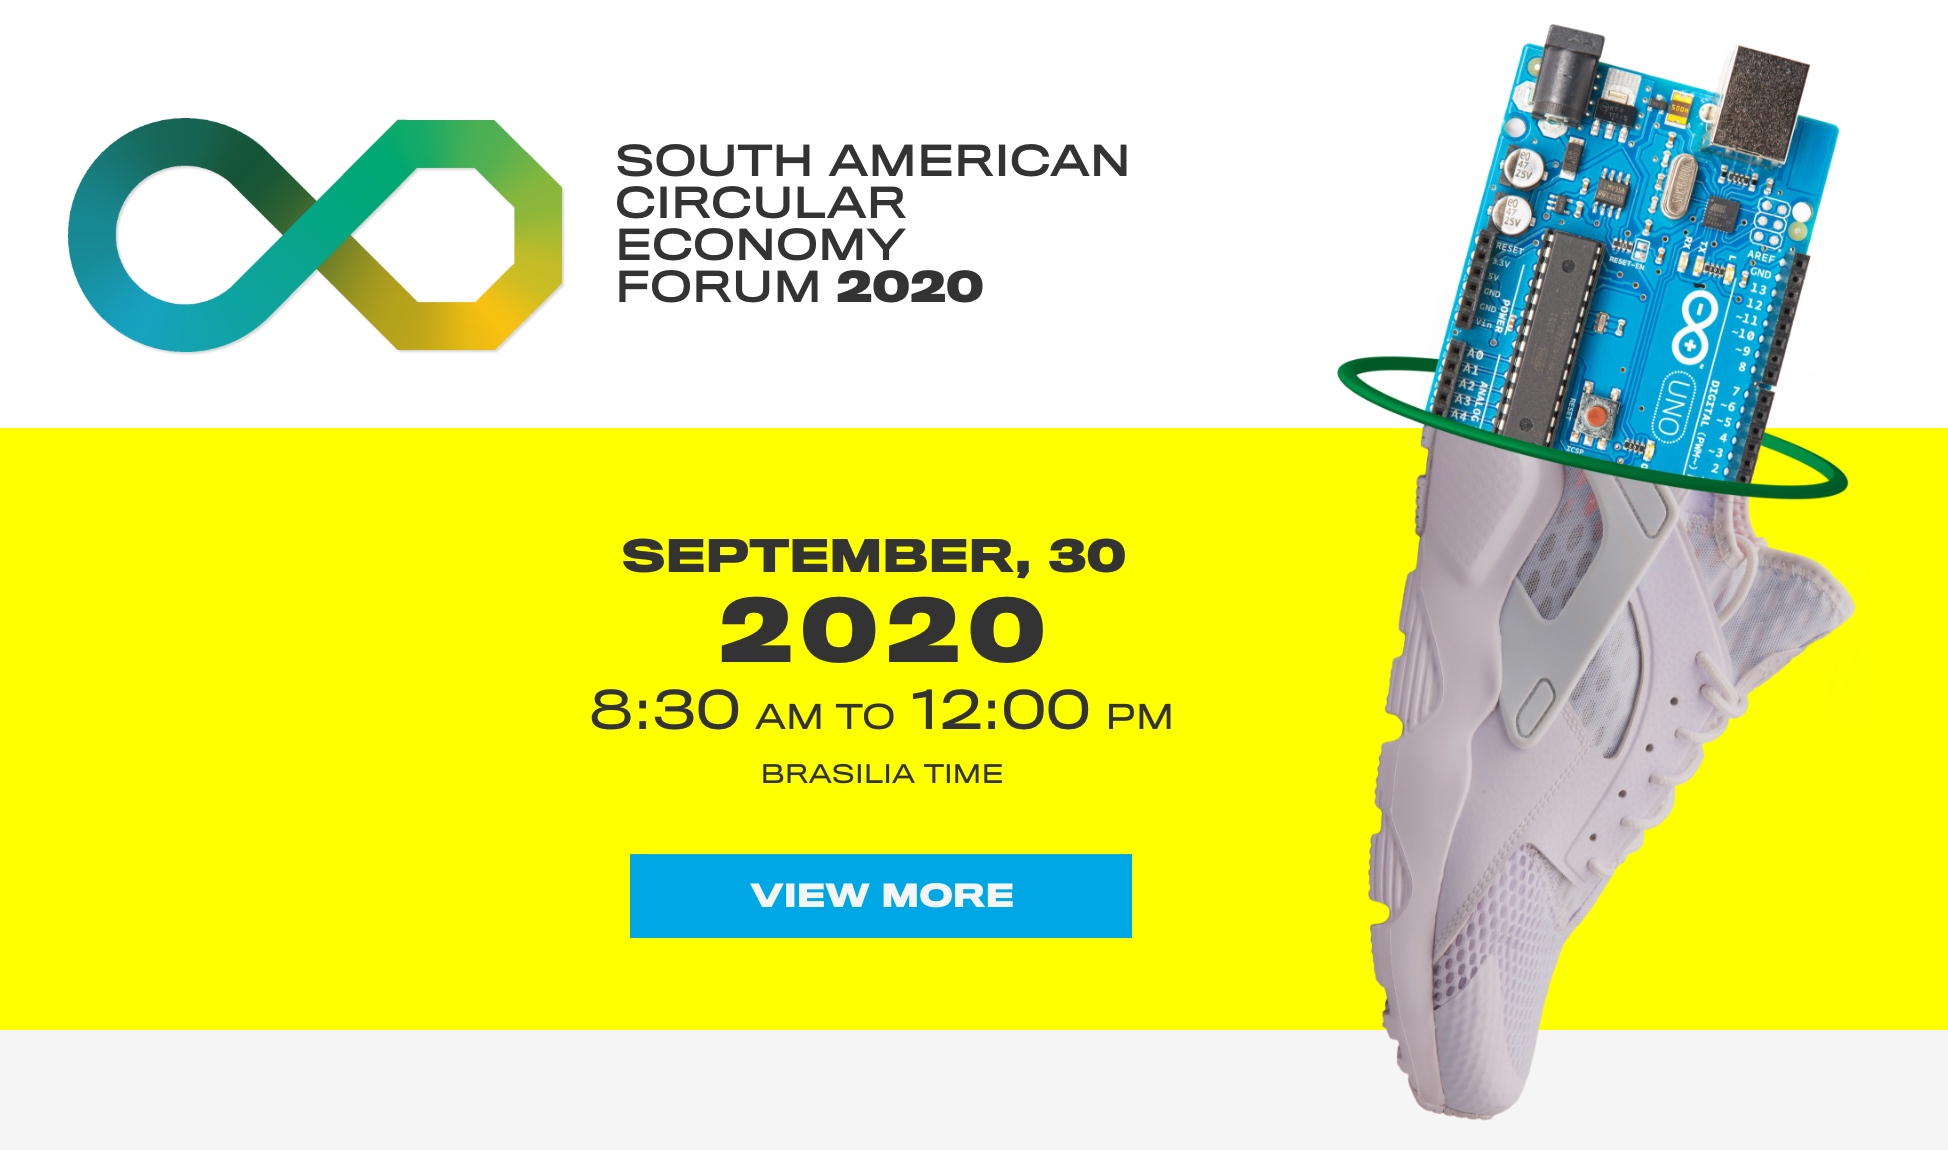
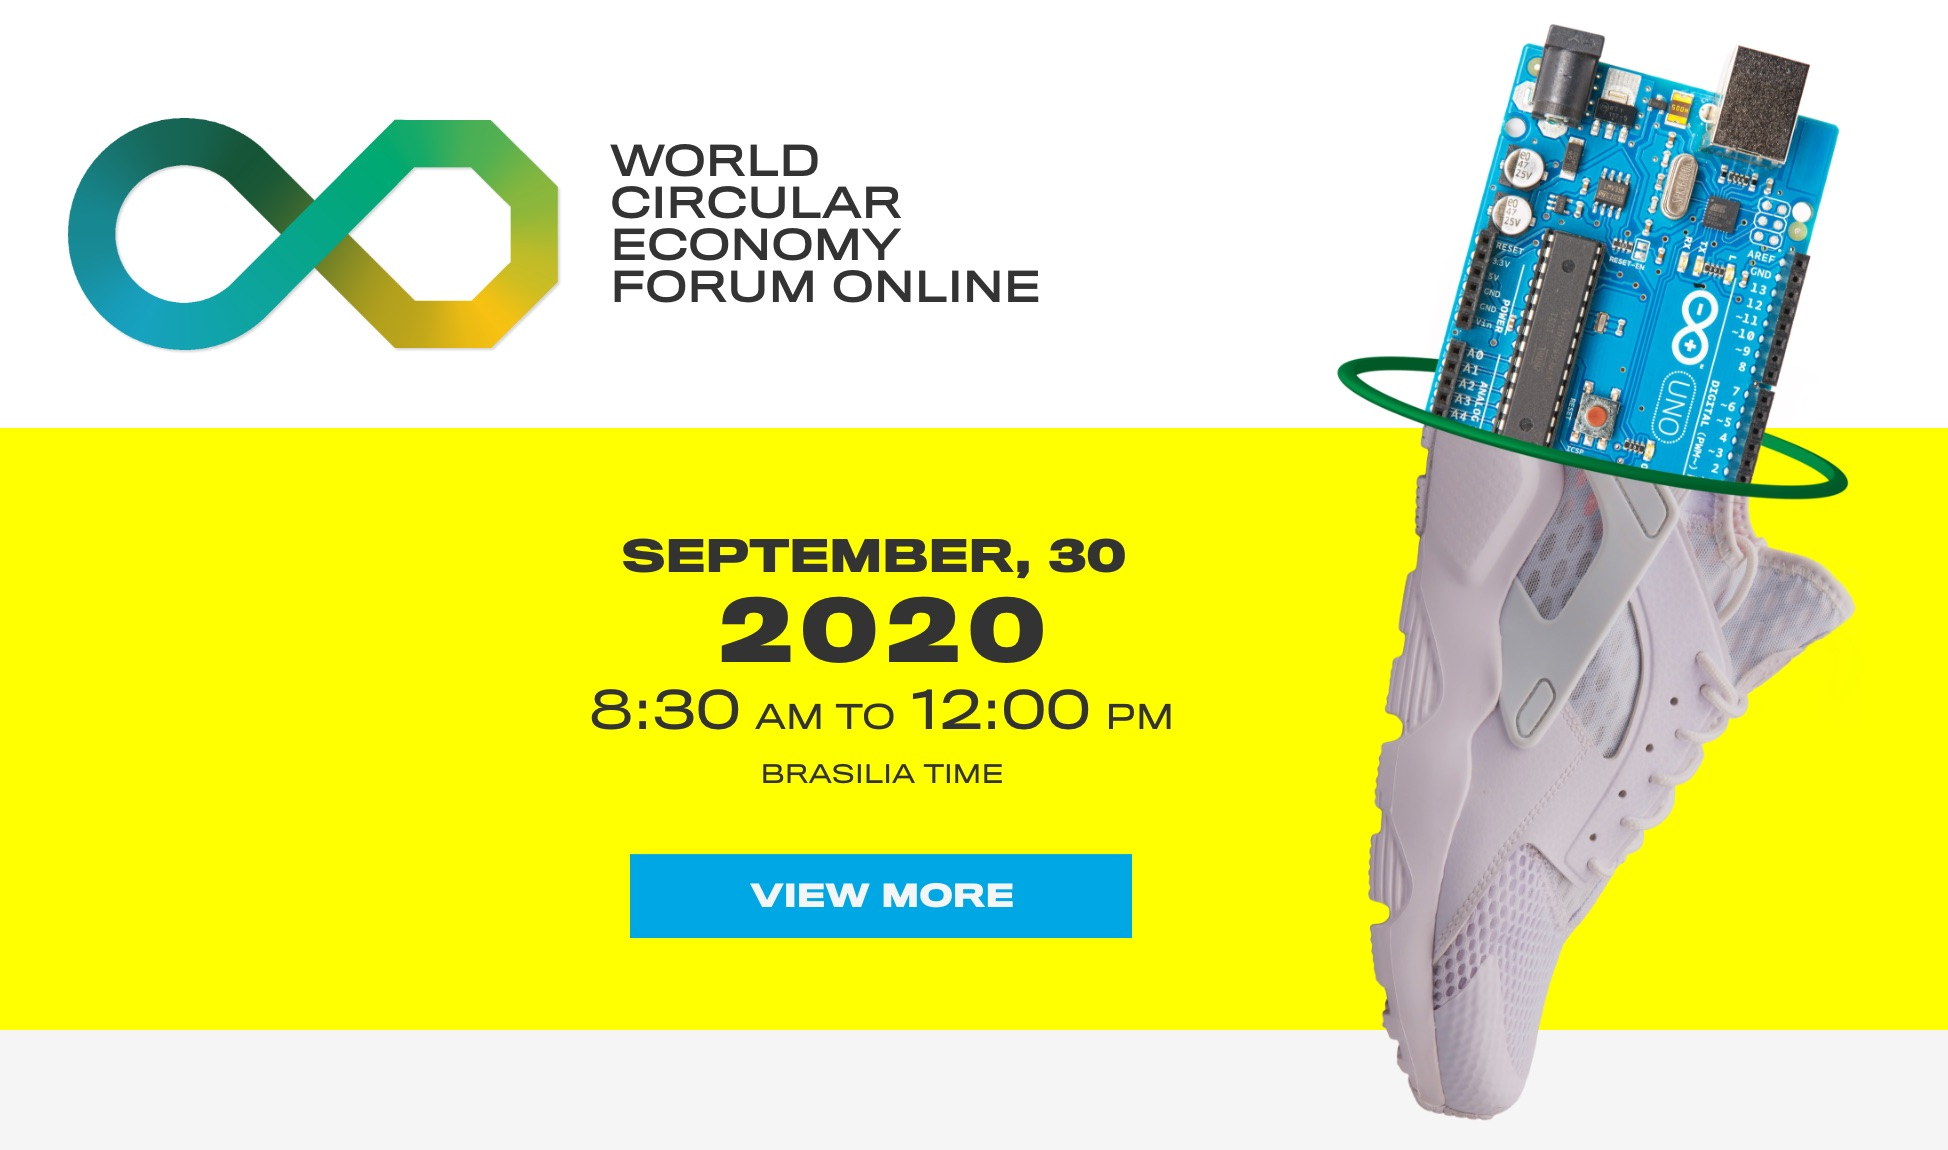
Add files via upload

diff --git a/en/forum-sul-americano-2020.html b/en/forum-sul-americano-2020.html
@@ -100,15 +100,11 @@
             <a class="nav-link js-scroll-trigger" href="index.html">SITE CIRCULAR ECONOMY</a>
           </li>
           <li class="nav-item px-2">
-            <a class="nav-link js-scroll-trigger" href="#sobre-forum">ABOUT FORUM</a>
+            <a class="nav-link js-scroll-trigger" href="#sobre-forum">ABOUT WCEFOnline</a>
           </li>
           <li class="nav-item px-2">
             <a class="nav-link js-scroll-trigger" href="#programacao">PROGRAMME</a>
           </li>
-          
-          <!-- <li class="nav-item  px-2">
-            <a class="nav-link js-scroll-trigger" href="#local">LOCAL DO EVENTO</a>
-          </li> -->
           <li class="nav-item dropdown ml-3">
             <a class="nav-link dropdown-toggle" href="#" id="navbarDropdown" role="button" data-toggle="dropdown" aria-haspopup="true" aria-expanded="false">
               <i class="fa fa-globe" aria-hidden="true"></i> 
@@ -152,18 +148,24 @@
 
         <div class="col-sm-12 col-xl-10 offset-xl-1">
           <div class="section-header">
-            <h2>SOUTH AMERICAN CIRCULAR ECONOMY 
-              <br><strong>FORUM – 2020</strong>
+            <h2>WCEFonline Side Event: Building a  
+              <br><strong>Circular Economy in Latin America</strong>
             </h2>
           </div>
-          <div class="col-lg-10 offset-lg-1">
-          <h3 class="h4 text-center">Re-use. Redistribution. Remanufacture. Recycling. Extending The Life Cycle. </h3>
-          <p class="lead text-center">How to maintain the value of products and open up new possibilities to obtain value within a sustainable production chain?</p>
-          </div>
+
+          <!-- <div class="col-lg-10 offset-lg-1 d-none">
+            <h3 class="h4 text-center">Re-use. Redistribution. Remanufacture. Recycling. Extending The Life Cycle. </h3>
+            <p class="lead text-center">How to maintain the value of products and open up new possibilities to obtain value within a sustainable production chain?</p>
+          </div> -->
+          
           <div class="colunas">
 
             <p>
-              The circular economy is the path to the most efficient use of natural resources and to increase the competitiveness of the industry. With this in mind, FIESP, CIESP and SENAI-SP organize this forum that brings together representatives of the public and private sectors of different countries to present good practices in public policies and business models.
+              Fostering the implementation of the circular economy globally requires attention to regional diversities, allowing an inclusive transition to this new economic model.
+            </p>
+
+            <p>
+              With this in mind, FIESP, CIESP and SENAI-SP organize a debate on the opportunities and challenges to establish a circular economy in Latin America and the importance of partnerships, with representatives from the public and private sectors.
             </p>
 
             <p>
@@ -171,7 +173,7 @@
             </p>
 
             <p>
-              The meeting will be held in partnership with SITRA, the Finland Innovation Fund that organizes the World Circular Economy Forum in partnership with Finland, and will gather knowledge and experiences from the world forums already held, in addition to preparing the audience for the Global meeting in Canada at the end of the year.
+              The meeting will be held on the second day of activities of the World Circular Economy Forum Online (WCEF), an event organized by the Finnish Innovation Fund, SITRA, which brings together the main thinkers and executors of the circular economy from around the world.
             </p>
           </div>
           <div class="pt-5 text-center">
@@ -196,14 +198,16 @@
               <strong>PROGRAMME</strong>
             </h2>
             <p>DATE: SEPTEMBER, 30 - ONLINE<br>
-            8:30 am to 12:00 pm <br>(Brasília time)</p>
+            8:30 am to 12:00 pm <br>(Brasilia time)</p>
           </div>
 
           <div class="col-md-10 offset-md-1">
             <div class="row programacao-item">
               <div class="col-md-2"><time>08:30</time></div>
               <div class="col-md-10">
-                <h4>Abertura</h4>
+                
+                <h4>OPENING SESSION</h4>
+                
                 <p><strong>Eduardo San Martin</strong> - President of Environmental Council of Fiesp</p>
                 <p><strong>Jyri Arponen </strong> - Senior Lead Finland Innovation Fund SITRA</p>
                 <p><strong>Marcos Pontes</strong> - Minister of Science, Technoloy and Innovation of Brazil </p>
@@ -288,7 +292,7 @@
 
 
       <!-- PATROCINADORES -->
-  <section id="patrocinadores" class="section-with-bg ">
+  <section id="patrocinadores" class="section-with-bg d-none">
     <div class="container">
       <div class="row">
         <div class="col-12 text-right">
@@ -303,35 +307,6 @@
 
 
 
-  <!-- LOCAL -->
-  <section id="local" class="d-none">
-    <div class="container">
-      <div class="row">
-        <div class="col-md-4">
-
-            <div class="section-header">
-            <h2>  
-              <strong>LOCAL DO EVENTO</strong>
-            </h2>
-
-          </div>
-          <p>
-            <strong>Prédio da Fiesp - Teatro SESI</strong><br>
-            Av Paulista, 1313<br>
-            <small>(em frente à estação Trianon-Masp do Metrô)</small><br>
-            Tel: (11) 3549-4675<br>
-            Email: <a href="mailto:cdma@fiesp.com.br" target="_blank">cdma@fiesp.com.br</a>
-          </p>
-
-        </div>
-
-        <div class="col-md-8">
-          <iframe src="https://www.google.com/maps/embed?pb=!1m18!1m12!1m3!1d3657.128585339137!2d-46.65696338451189!3d-23.563824884681683!2m3!1f0!2f0!3f0!3m2!1i1024!2i768!4f13.1!3m3!1m2!1s0x94ce59a9c1ae63a1%3A0x3542e588034ae09c!2sFIESP%20-%20Federa%C3%A7%C3%A3o%20das%20Ind%C3%BAstrias%20do%20Estado%20de%20S%C3%A3o%20Paulo!5e0!3m2!1spt-BR!2sbr!4v1583441131305!5m2!1spt-BR!2sbr" width="100%" height="450" frameborder="0" style="border:0;" allowfullscreen=""></iframe>
-        </div>
-
-      </div>
-    </div>
-  </section>
 
 
   <!-- Footer -->

diff --git a/en/index.html b/en/index.html
@@ -172,7 +172,7 @@
           </li>
           
           <li class="nav-item  px-2">
-            <a class="nav-link js-scroll-trigger text-uppercase" href="forum-sul-americano-2020.html">FORUM SUL-AMERICANO</a>
+            <a class="nav-link js-scroll-trigger" href="forum-sul-americano-2020.html">WCEFOnline</a>
           </li>
           <li class="nav-item dropdown ml-3">
             <a class="nav-link dropdown-toggle" href="#" id="navbarDropdown" role="button" data-toggle="dropdown" aria-haspopup="true" aria-expanded="false">
